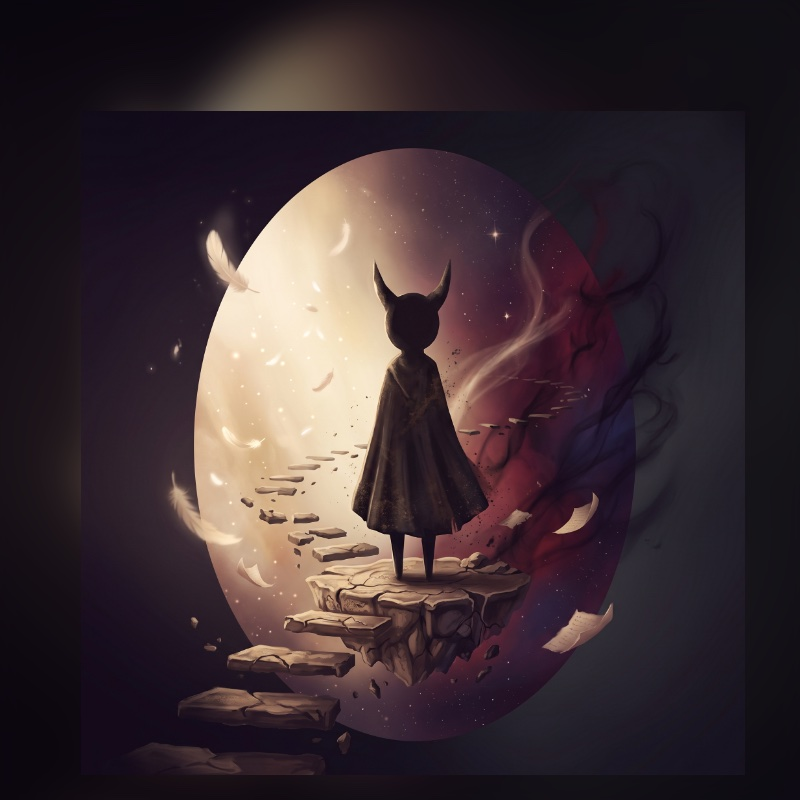
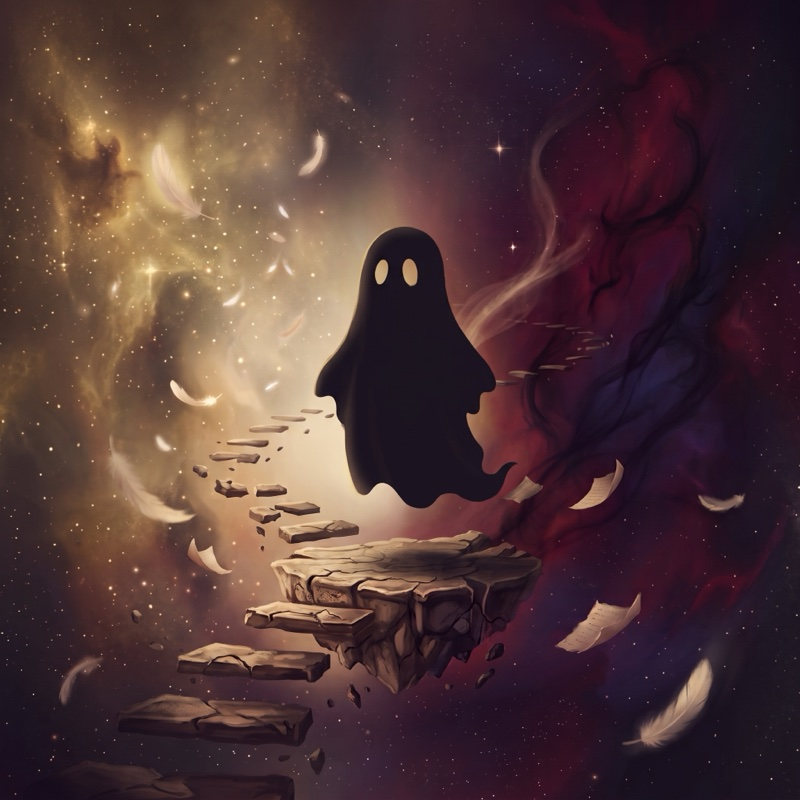
404: troca a arte pelo fantasma e aumenta a moldura
A moldura passa de 19rem para 27rem de largura máxima, para equilibrar
com o título.

diff --git a/assets/css/erro.css b/assets/css/erro.css
@@ -3,7 +3,7 @@
    ========================================================================== */
 
 .erro { text-align: center; }
-.erro .moldura-alada { width: min(80%, 19rem); }
+.erro .moldura-alada { width: min(90%, 27rem); }
 .erro__codigo {
 	position: relative;
 	margin-top: -1.5rem;

diff --git a/README-redesign.md b/README-redesign.md
@@ -192,7 +192,7 @@ enfileirado, e as URLs já estão no formato final.
 
 ## O que é real e o que é provisório
 
-**Real (vem do site atual e do blog do cliente):** moldura alada do logo; arte da 404 (gerada por IA, reenquadrada no miolo da moldura); capas de Gênesis e
+**Real (vem do site atual e do blog do cliente):** moldura alada do logo; arte da 404 (fantasma gerado por IA); capas de Gênesis e
 Crônicas; ilustrações e fichas dos 10 personagens e das 13 criaturas;
 texto da cosmogênese; mapa do Mundo Concreto; bio, trajetória e foto do
 autor; links e preços da Amazon e do Mercado Livre; livrarias; redes
